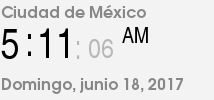
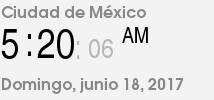
update images 18-06-2017 05:20

Changed region(s): [[0.1682, 0.27, 0.3645, 0.6]]

diff --git a/README.md b/README.md
@@ -5367,3 +5367,4 @@
 |18-06-2017 04:50
 |18-06-2017 05:03
 |18-06-2017 05:11
+|18-06-2017 05:20
